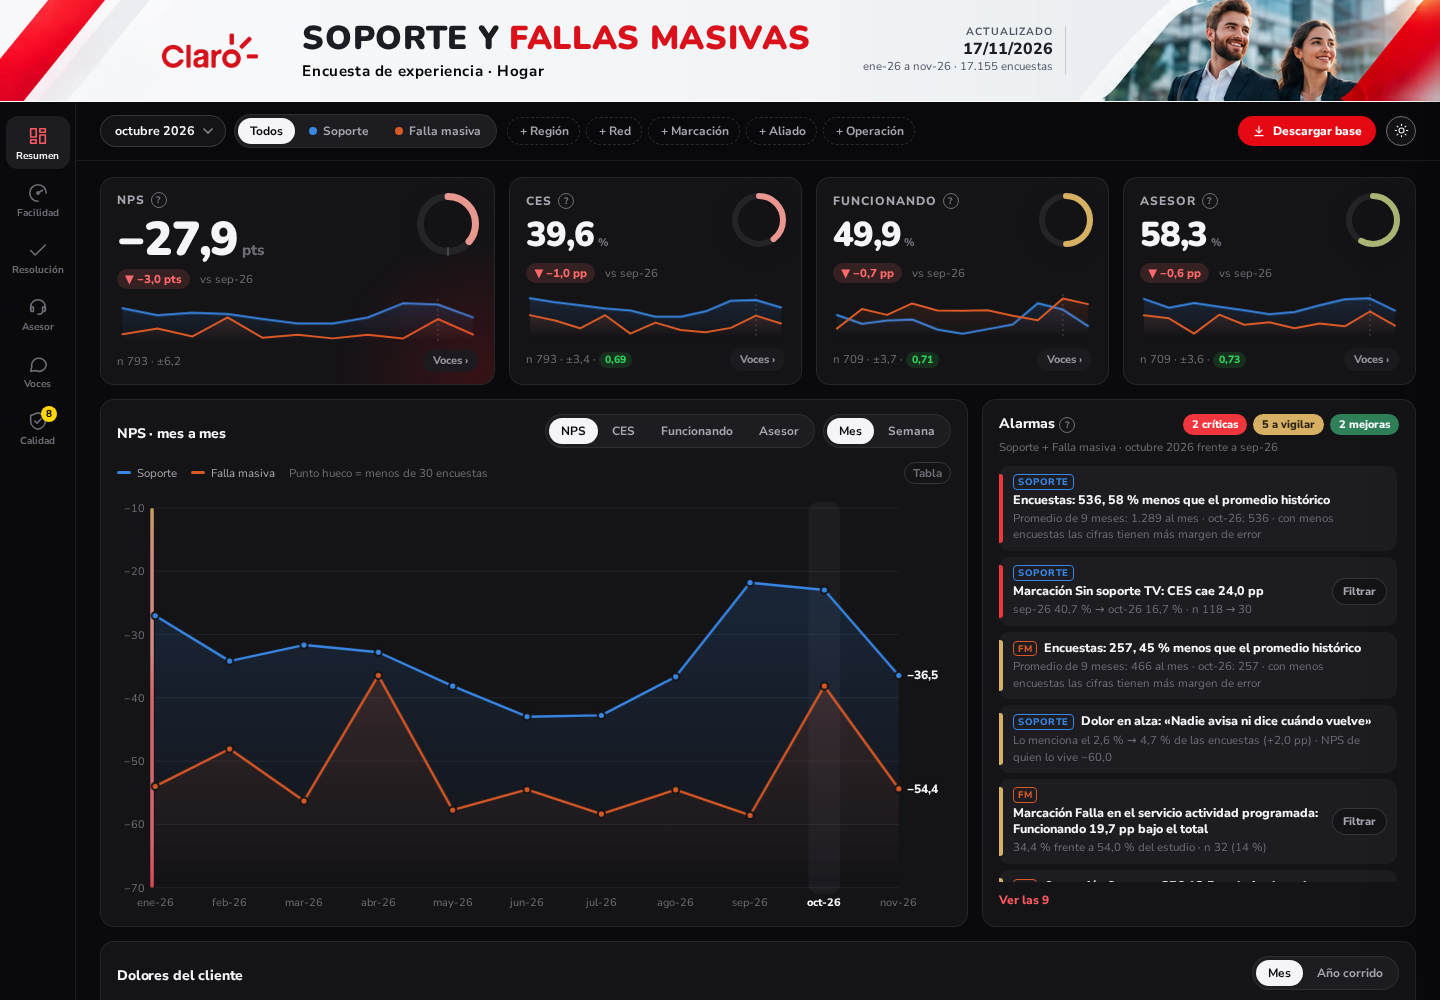
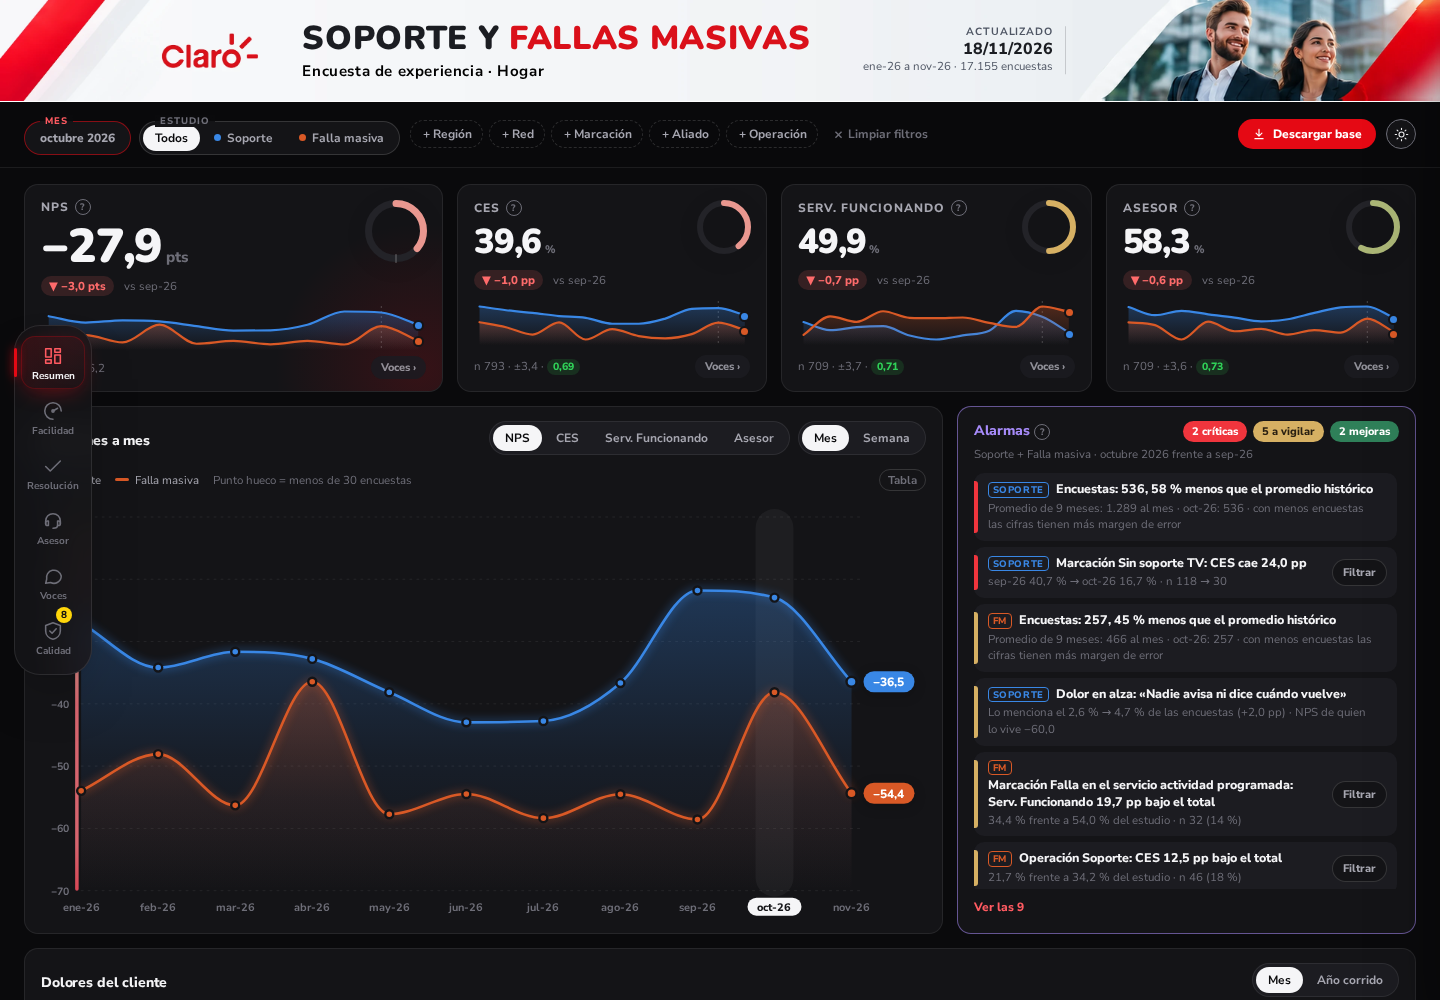
docs: README con capturas actuales del tablero (oct-2026)

diff --git a/README.md b/README.md
@@ -9,7 +9,8 @@ descargable sale de Yellowbrick (`VW_CLIEN_SERVICIOS_FTTH`, credenciales del `.e
 
 ## Vistas
 
-Capturas de octubre 2026 (cierre completo); el tablero abre en el último mes disponible. Modo claro por defecto, con botón para oscuro.
+Capturas de octubre 2026 (cierre completo; regeneradas el 2026-11-19); el tablero abre en el último mes disponible. Modo claro por defecto, con botón para oscuro.
+Se quitó de las capturas la sección «Lo que dicen los clientes» (comentarios literales); la pestaña **Voces** tampoco se muestra.
 
 **Resumen.** Los cuatro indicadores con tendencia, la evolución mes a mes, las alarmas y la caja de dolores del cliente.
 
